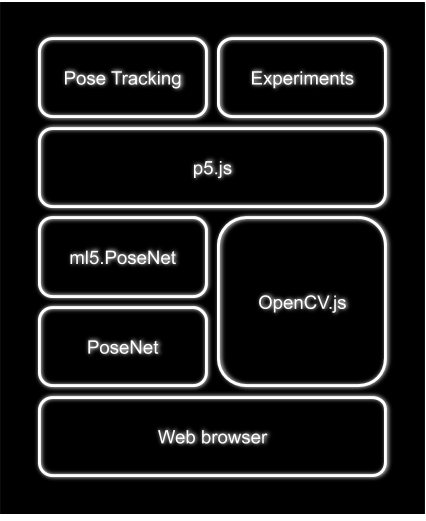
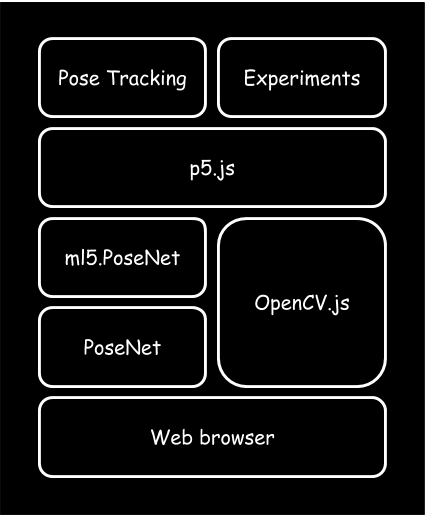
adicionado o plugin de zoom do reveal.js e atualizada a figura da arquitetura

diff --git a/project/reveal.js/index.html b/project/reveal.js/index.html
@@ -171,7 +171,9 @@
 					{ src: 'plugin/markdown/marked.js' },
 					{ src: 'plugin/markdown/markdown.js' },
 					{ src: 'plugin/notes/notes.js', async: true },
-					{ src: 'plugin/highlight/highlight.js', async: true }
+					{ src: 'plugin/highlight/highlight.js', async: true },
+					// Zoom in and out with Alt+click
+					{ src: 'plugin/zoom-js/zoom.js', async: true },
 				]
 			});
 		</script>
